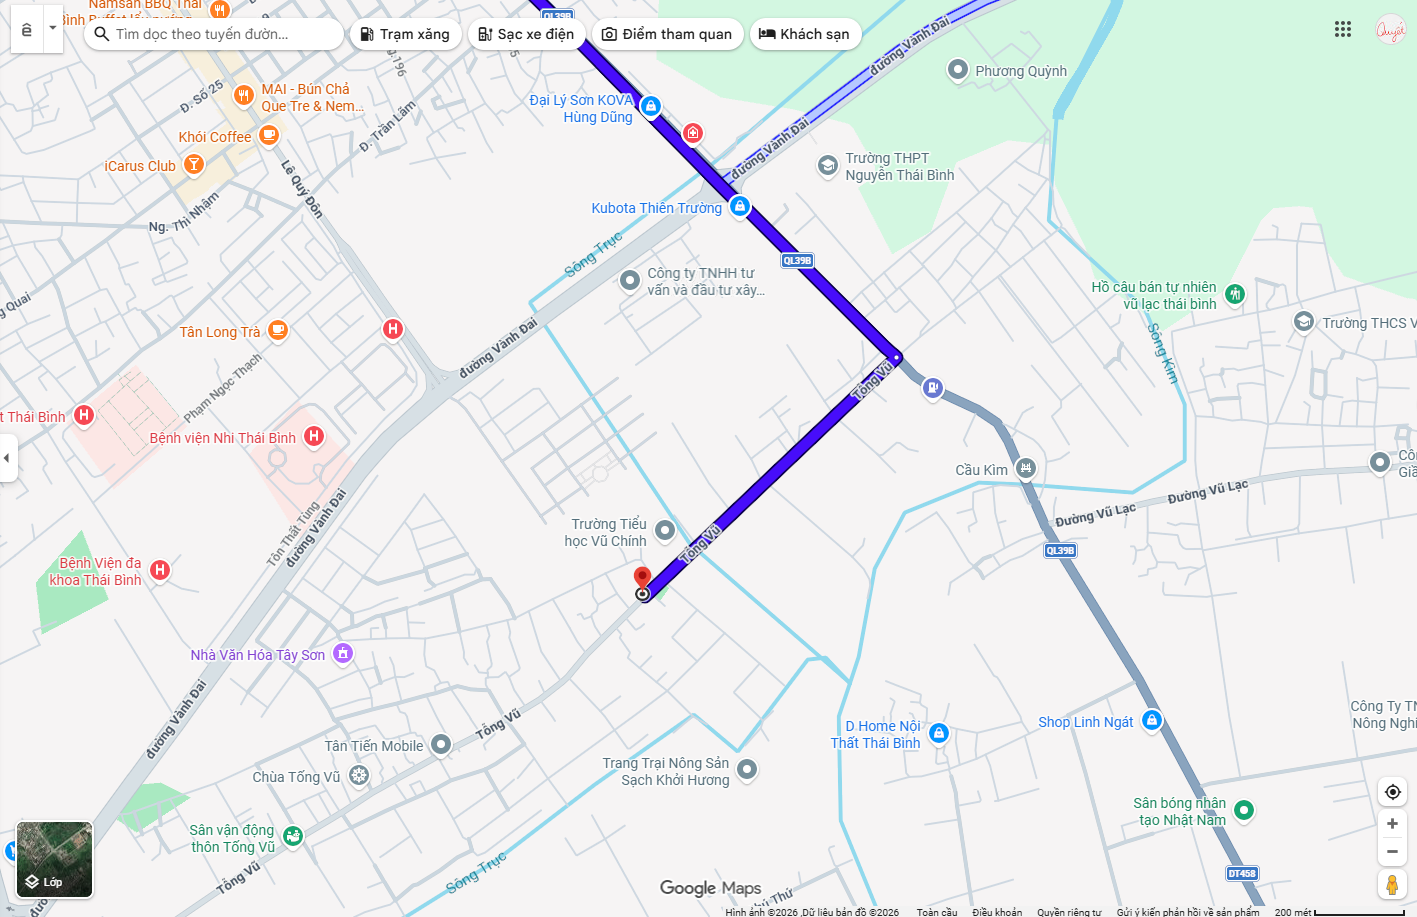
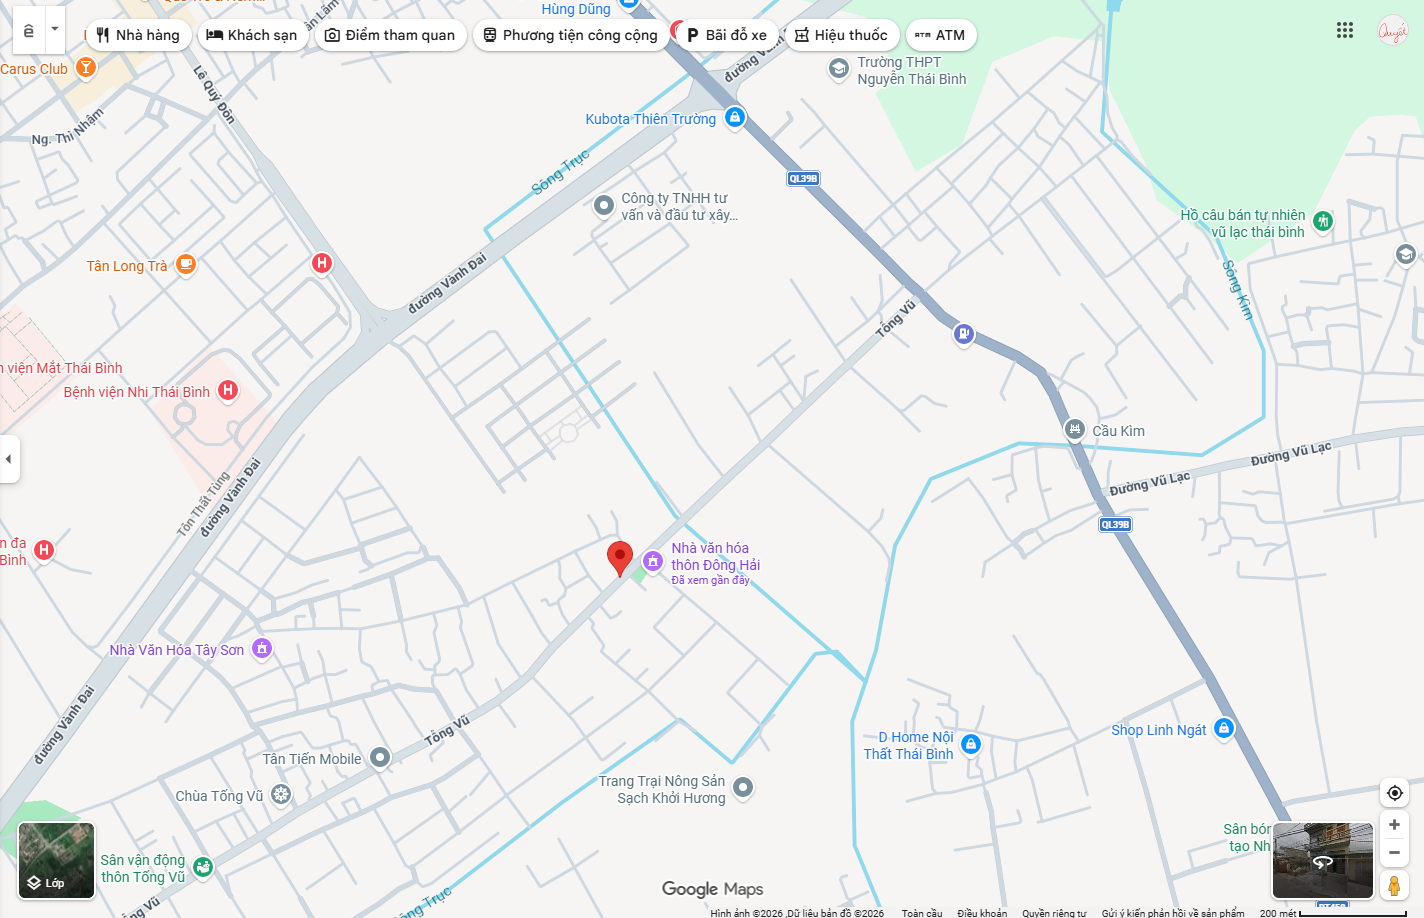
final v1

diff --git a/assets/js/config-bride.js b/assets/js/config-bride.js
@@ -74,7 +74,7 @@ window.WEDDING_CONFIG = {
           },
     
           address: "Thôn Đông Hải, Phường Trần Lãm, Tỉnh Hưng Yên (Xã Vũ Chính, Thành phố Thái Bình, Tỉnh Thái Bình cũ)",
-          mapUrl: "https://www.google.com/maps/dir/21.0280115,105.9449027/20.4294765,106.3586792/@20.7286297,105.817904,10z/data=!3m1!4b1!4m6!4m5!1m1!4e1!1m1!4e1!3e0!18m1!1e1?entry=ttu&g_ep=EgoyMDI2MDUwMi4wIKXMDSoASAFQAw%3D%3D",
+          mapUrl: "https://www.google.com/maps/place/20%C2%B025'46.1%22N+106%C2%B021'31.3%22E/@20.4314536,106.3560483,16.25z/data=!4m4!3m3!8m2!3d20.4294722!4d106.3586944!18m1!1e1?entry=ttu&g_ep=EgoyMDI2MDUwNi4wIKXMDSoASAFQAw%3D%3D",
           image: "../assets/images/map_bride.png",
           imageAlt: "Bản đồ nhà gái"
         },
@@ -89,7 +89,7 @@ window.WEDDING_CONFIG = {
     
           reception: {
             title: "Tiệc cưới - Nhà trai",
-            time: "12:00, 25/05/2026"
+            time: "16:00, 24/05/2026"
           },
     
           address: "Khu 7, Xã Thanh Thuỷ, Tỉnh Phú Thọ",

diff --git a/assets/js/config-groom.js b/assets/js/config-groom.js
@@ -70,7 +70,7 @@ window.WEDDING_CONFIG = {
     
           reception: {
             title: "Tiệc cưới - Nhà trai",
-            time: "12:00, 25/05/2026"
+            time: "16:00, 24/05/2026"
           },
     
           address: "Khu 7, Xã Thanh Thuỷ, Tỉnh Phú Thọ",
@@ -93,7 +93,7 @@ window.WEDDING_CONFIG = {
           },
     
           address: "Thôn Đông Hải, Phường Trần Lãm, Tỉnh Hưng Yên (Xã Vũ Chính, Thành phố Thái Bình, Tỉnh Thái Bình cũ)",
-          mapUrl: "https://www.google.com/maps/dir/21.0280115,105.9449027/20.4294765,106.3586792/@20.7286297,105.817904,10z/data=!3m1!4b1!4m6!4m5!1m1!4e1!1m1!4e1!3e0!18m1!1e1?entry=ttu&g_ep=EgoyMDI2MDUwMi4wIKXMDSoASAFQAw%3D%3D",
+          mapUrl: "https://www.google.com/maps/place/20%C2%B025'46.1%22N+106%C2%B021'31.3%22E/@20.4314536,106.3560483,16.25z/data=!4m4!3m3!8m2!3d20.4294722!4d106.3586944!18m1!1e1?entry=ttu&g_ep=EgoyMDI2MDUwNi4wIKXMDSoASAFQAw%3D%3D",
           image: "../assets/images/map_bride.png",
           imageAlt: "Bản đồ nhà gái"
         }

diff --git a/index.html b/index.html
@@ -163,13 +163,13 @@
       <a class="card-link" href="Groom/">
         <span class="label">Nhà trai</span>
         <span class="title">Thiệp chú rể</span>
-        <span class="hint">Tiệc cưới tại nhà trai, thứ tự buổi lễ ưu tiên Nhà trai.</span>
+        <span class="hint">Tiệc cưới tại nhà trai.</span>
       </a>
 
       <a class="card-link" href="Bride/">
         <span class="label">Nhà gái</span>
         <span class="title">Thiệp cô dâu</span>
-        <span class="hint">Tiệc cưới tại nhà gái, thứ tự buổi lễ ưu tiên Nhà gái.</span>
+        <span class="hint">Tiệc cưới tại nhà gái.</span>
       </a>
     </div>
 